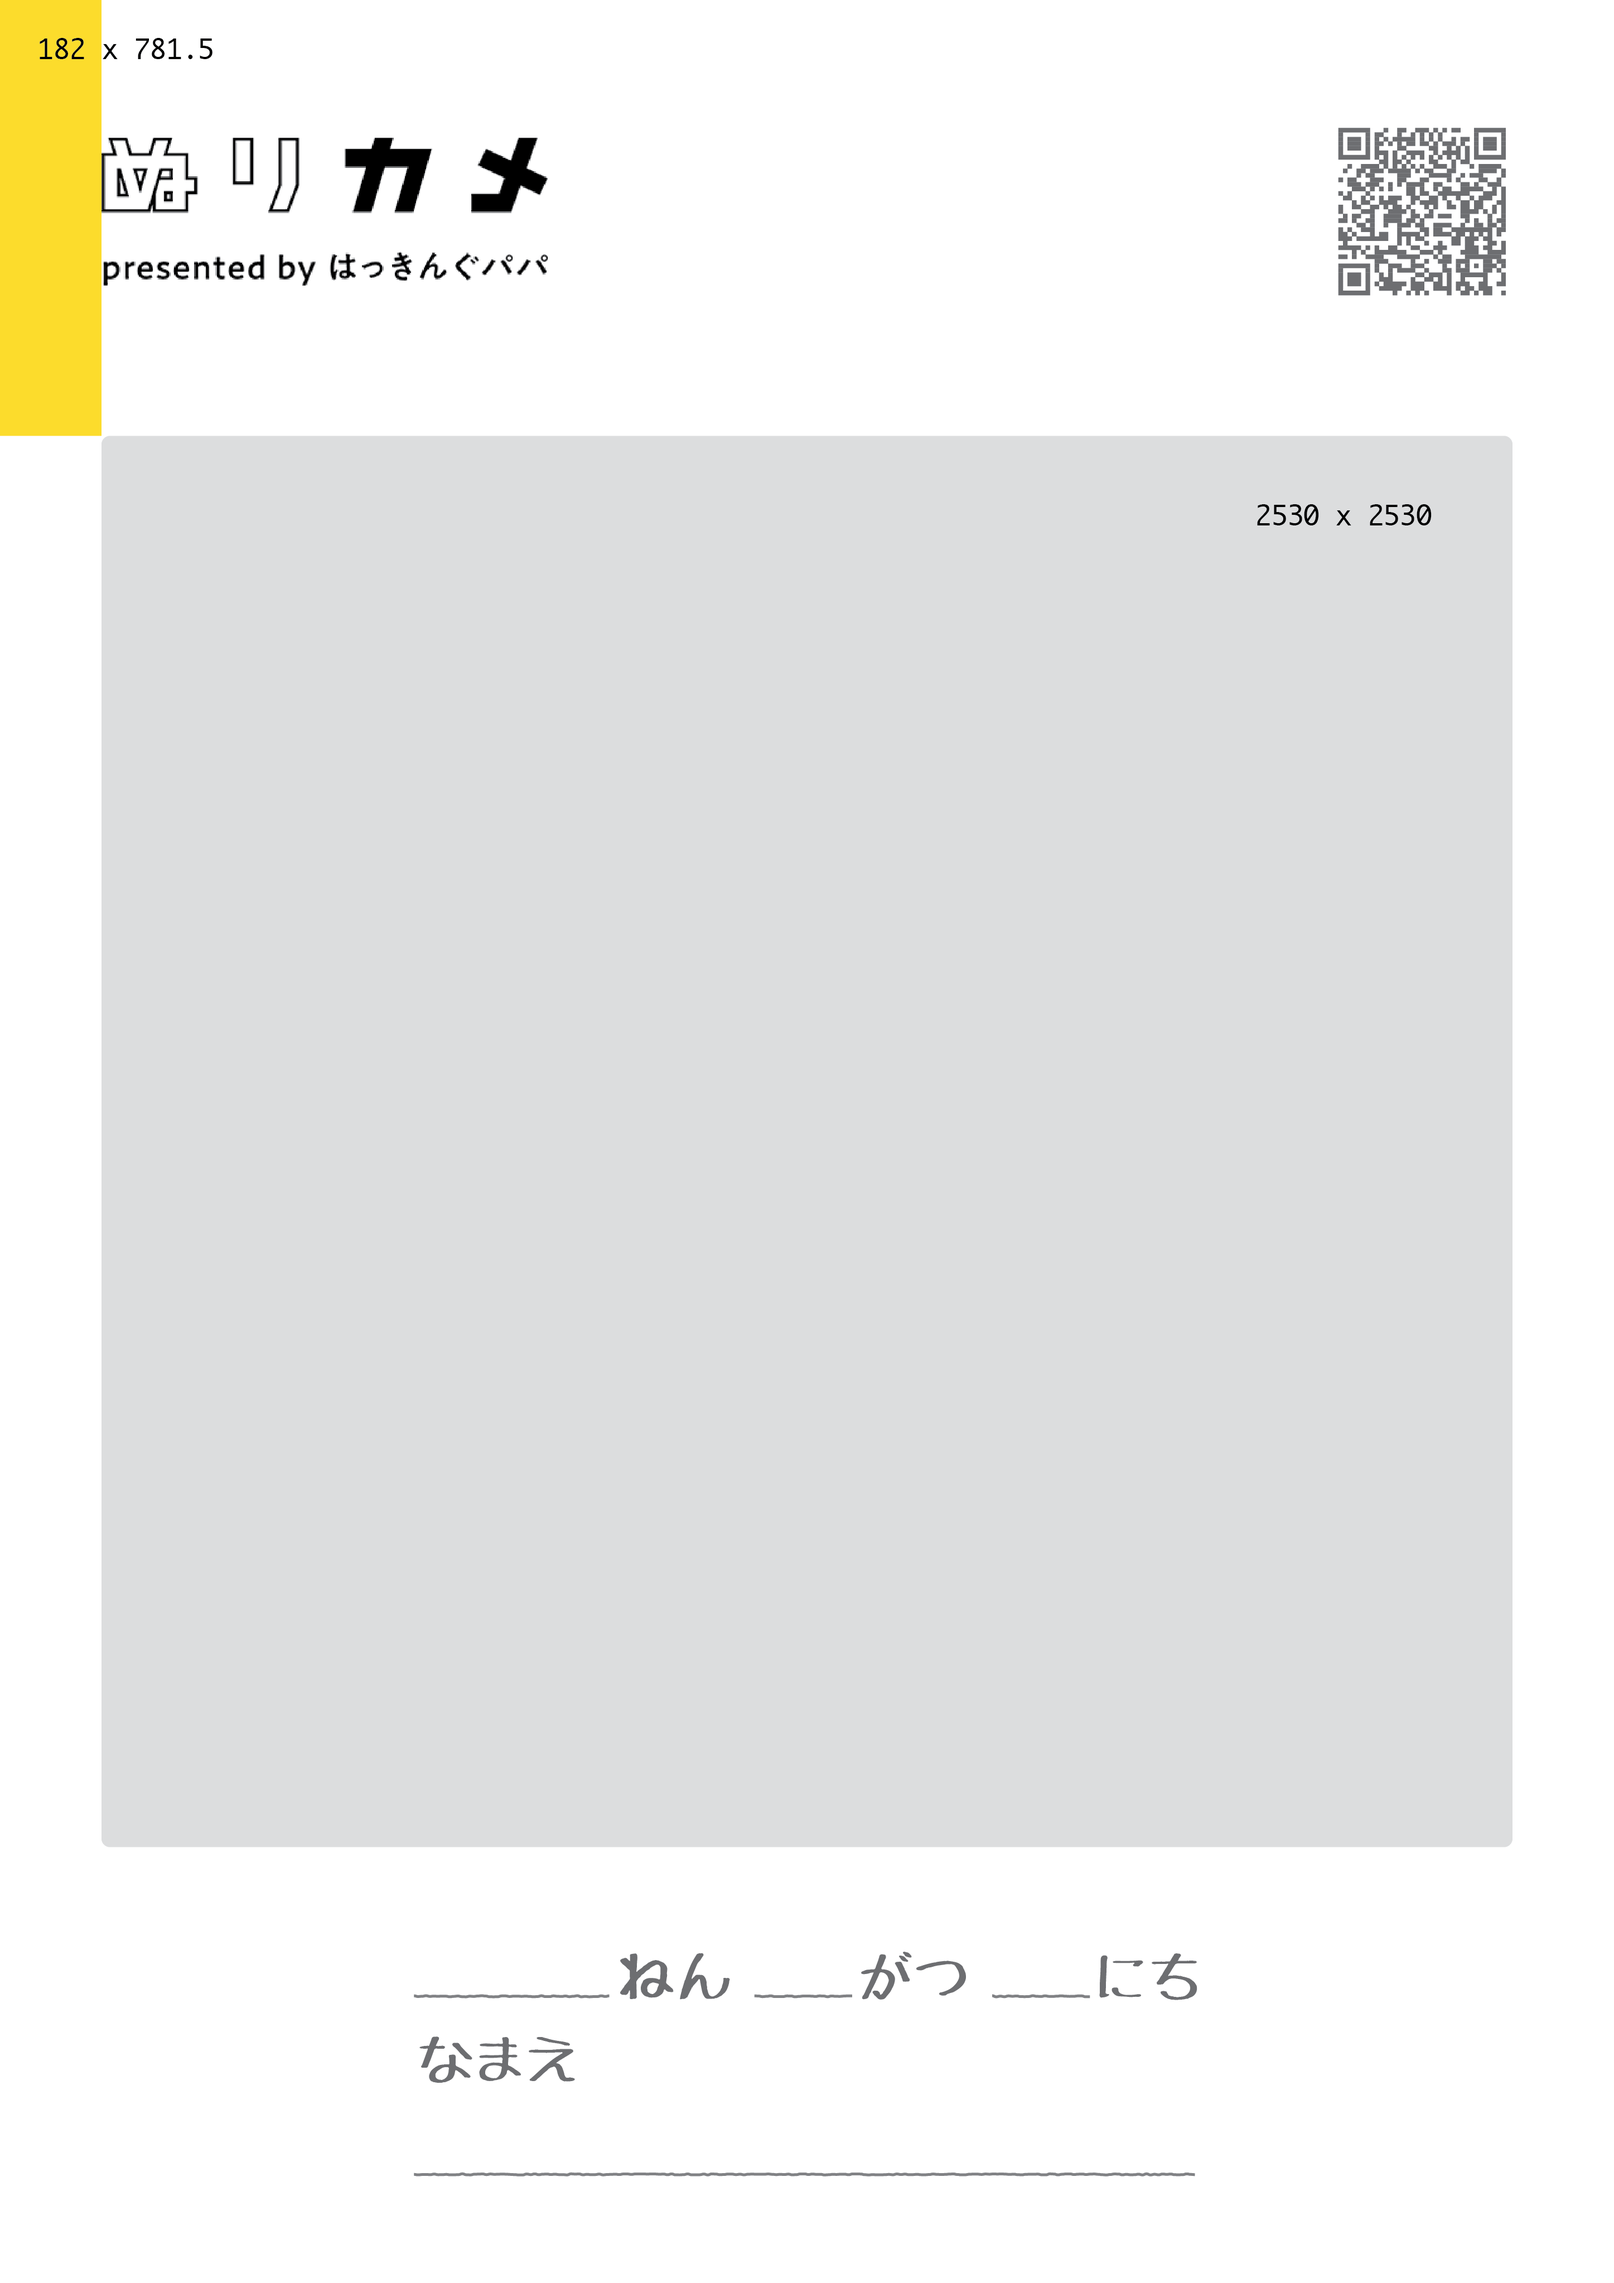
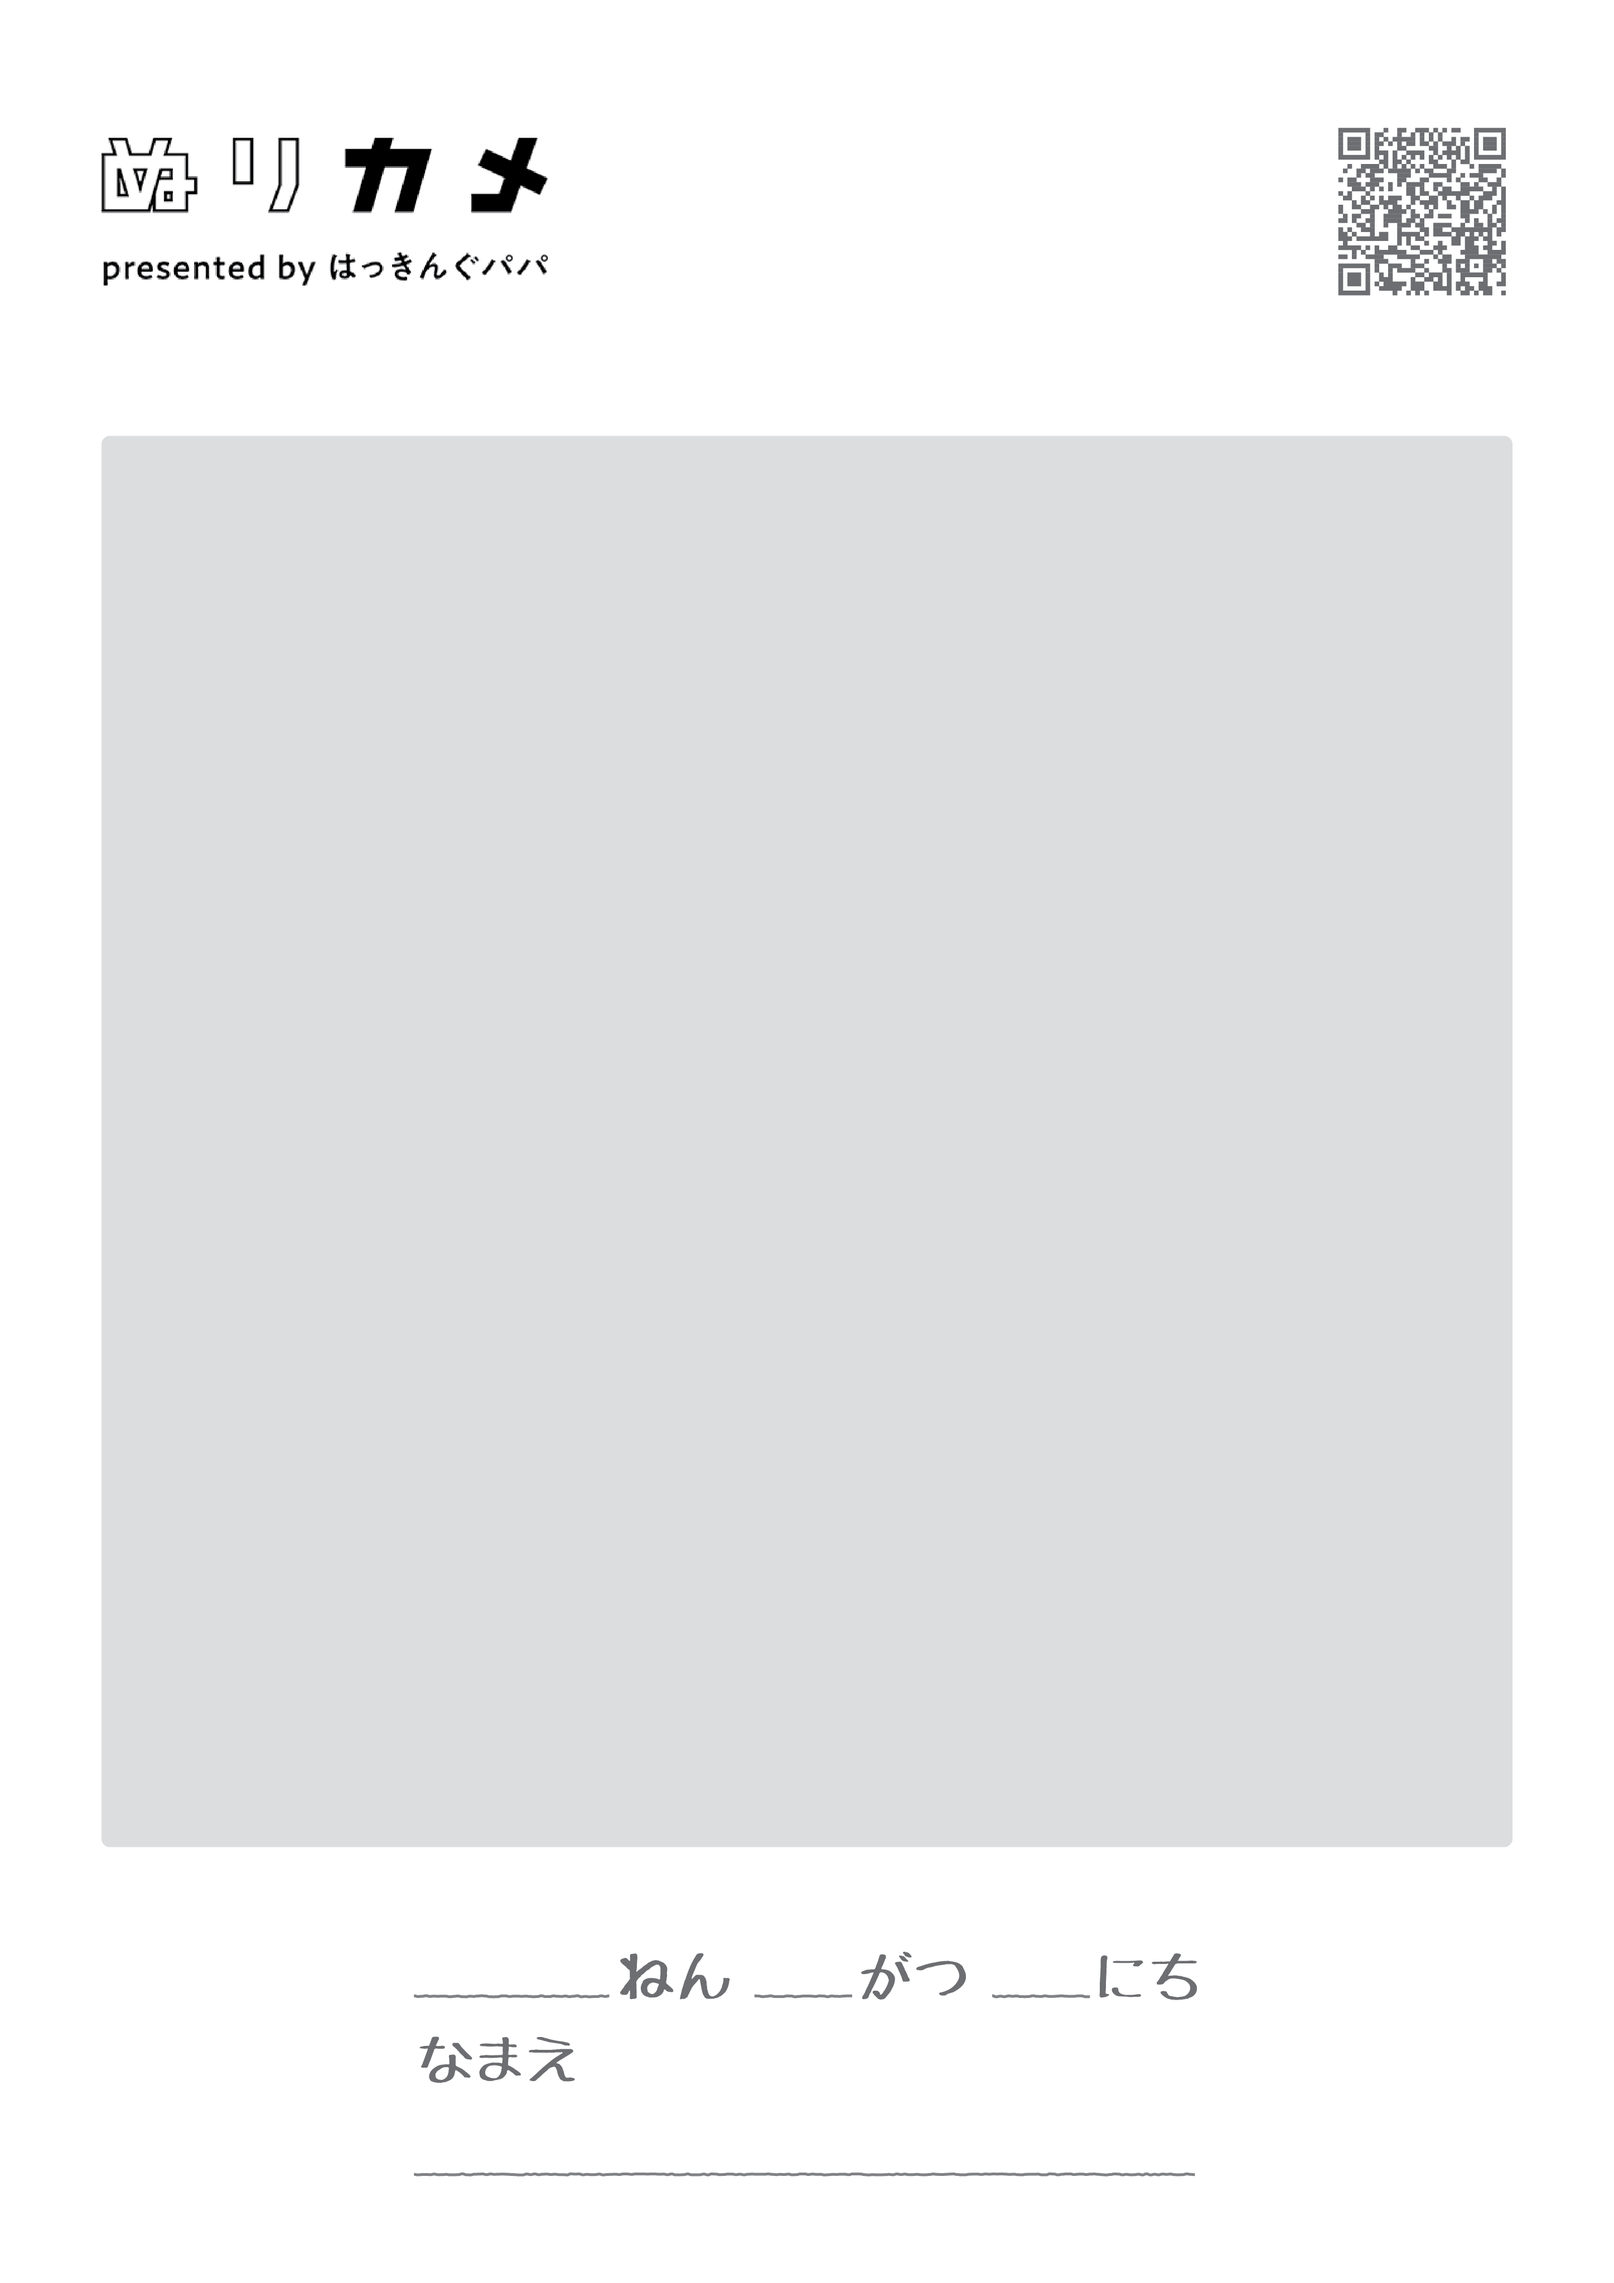
:+1: Compose Frame and Image

Changed region(s): [[0.0, 0.0, 0.0622, 0.2172]]

diff --git a/Frame.py b/Frame.py
@@ -1,26 +1,28 @@
 #!/usr/bin/env python3
 
-""" Frame """
+""" Compose Image and Frame """
 
 from pathlib import Path
 
 import cv2
 
 FRAME_PATH: Path = Path("frame.png")
-TARGET_WIDTH: int = 2000
-TARGET_X: int =
+TARGET_WIDTH: int = 2500
 
 
 def compose(img):
     frame = cv2.imread(str(FRAME_PATH))
-    frame_height, frame_width, frame_ch = frame.shape
-    img_height, img_width, img_ch = img.shape
+    frame_height, frame_width, *_ = frame.shape
+    img = cv2.cvtColor(img, cv2.COLOR_GRAY2RGB)
+    img_height, img_width, *_ = img.shape
     if img_height != TARGET_WIDTH or img_width != TARGET_WIDTH:
         img = cv2.resize(img, (TARGET_WIDTH, TARGET_WIDTH), interpolation=cv2.INTER_LINEAR_EXACT)
-    return img
+        img_height, img_width, *_ = img.shape
+    target_x = int((frame_width - img_width) / 2)
+    target_y = int((frame_height - img_height) / 2)
+    frame[target_y:target_y + img_height, target_x:target_x + img_width] = img
+    return frame
 
-
-output_dir_path = Path("sample/output")
 
 if __name__ == "__main__":
     sample_dir_path = Path("./sample")

diff --git a/main.py b/main.py
@@ -10,6 +10,7 @@ from flask import Flask, render_template, request, make_response, jsonify
 from flask_debugtoolbar import DebugToolbarExtension
 from opencensus.ext.stackdriver import trace_exporter as stackdriver_exporter
 
+import Frame
 import HED
 
 app = Flask(__name__)
@@ -85,7 +86,8 @@ def index():
         img = np.frombuffer(image.read(), dtype=np.uint8)
         img = cv2.imdecode(img, 1)
         img = HED.convert(img)
-        data = cv2.imencode(".png", img)[1].tostring()
+        framed = Frame.compose(img)
+        data = cv2.imencode(".png", framed)[1].tostring()
         response = make_response()
         response.data = data
         response.mimetype = "image/png"

diff --git a/tests/test_Frame.py b/tests/test_Frame.py
@@ -1,0 +1,9 @@
+#!/usr/bin/env python3
+
+
+#  Copyright (c) 2020. sforzando LLC. and Inc.
+
+def test_simple():
+    a = 1
+    b = 2
+    assert a != b, "1 != 2"
